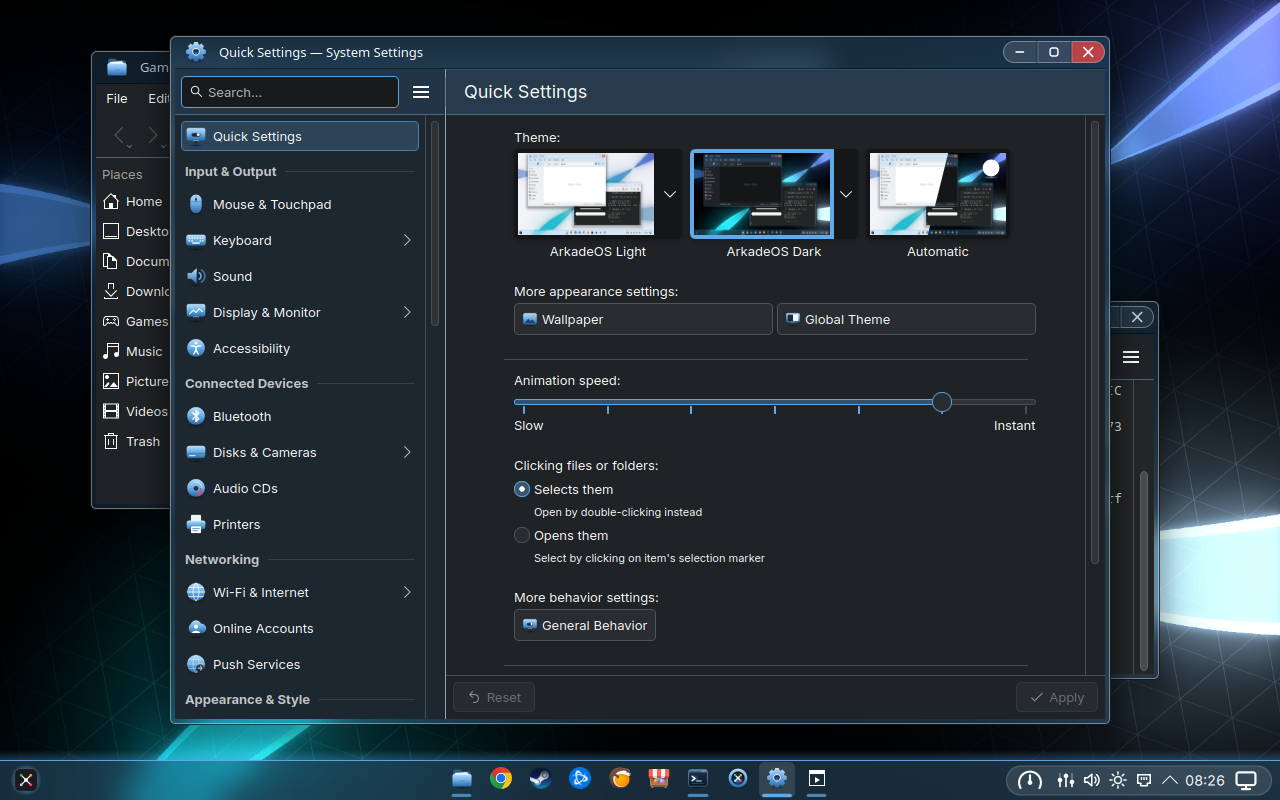
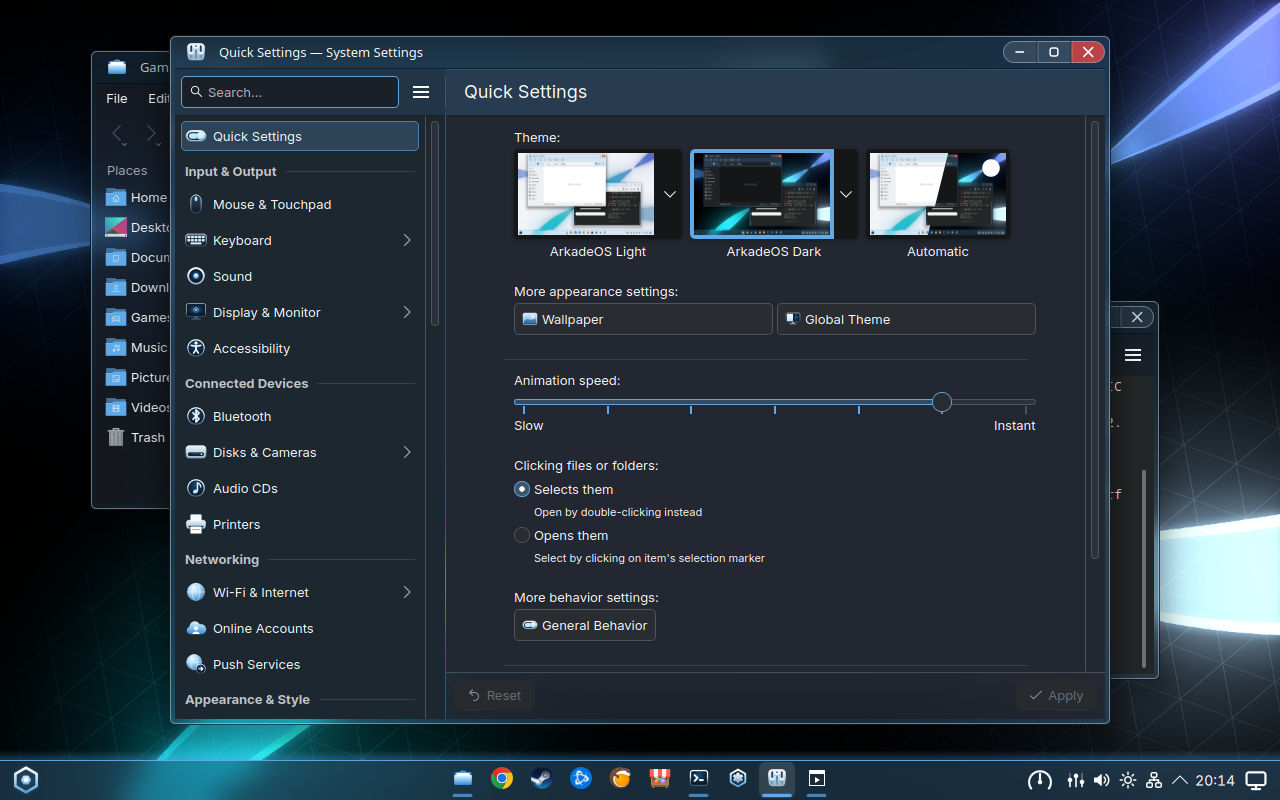
README: new pictures from the round 13 build (boot, welcome, login, lock, Start menu)
The desktop, light look, Quick Settings, Portal and login pictures are
retaken from the VM round 13 build; boot, welcome, lock and Start menu are
new. The boot picture comes from the installer test (round 12), the only
test that shows the graphical boot and the disk password.

diff --git a/README.md b/README.md
@@ -12,7 +12,7 @@ A clean KDE Plasma desktop, one image for NVIDIA, AMD and Intel graphics, Steam 
 ## Why ArkadeOS
 
 - **Built for games only.** No background indexing, no services you don't need. The kernel, scheduler and power settings are tuned for low latency and high frame rates.
-- **KDE Plasma in ArkadeOS Glass.** Our own sky-blue glass look, light and dark: one glass taskbar at the bottom with the pinned apps in the middle, ArkadeOS's own app and tray icons. Menus in the windows, quick search on Meta+Space, window snapping, Alt+Tab previews, clipboard history.
+- **KDE Plasma in ArkadeOS Glass.** Our own sky-blue glass look, light and dark, from the boot animation to the desktop: one glass taskbar at the bottom with the pinned apps in the middle, ArkadeOS's own app and tray icons. Menus in the windows, quick search on Meta+Space, window snapping, Alt+Tab previews, clipboard history.
 - **Can't be broken by an update.** The whole system is one image. A bad update? Reboot and pick the previous one.
 - **One image for every gaming graphics card.** NVIDIA, AMD and Intel: the NVIDIA driver is built in and only runs where an NVIDIA card is. See [Supported graphics cards](#supported-graphics-cards).
 
@@ -35,7 +35,8 @@ A clean KDE Plasma desktop, one image for NVIDIA, AMD and Intel graphics, Steam 
 | 💻 | MSI (msi-ec, MControlCenter), Lenovo Legion (LenovoLegionLinux); battery care at 80% | implemented |
 | 🌈 | RGB that follows the power profile (OpenRGB, ASUS Aura) | implemented |
 | 🖱 | Logitech and Razer mice, ASUS ROG keyboards, monitor control, LACT for the graphics card | implemented |
-| 🖥 | KDE Plasma 6 in ArkadeOS Glass: own glass look, wallpapers, app and tray icons, System Settings and Portal in the same look; light and dark switching by the time of day, one taskbar | implemented |
+| 🖥 | KDE Plasma 6 in ArkadeOS Glass: own glass look, wallpapers, app, folder and tray icons, System Settings and Portal in the same look; light and dark switching by the time of day, one taskbar | implemented |
+| ✨ | Boot animation of the ArkadeOS mark (also asking for the disk password), login, lock and welcome screens in the same glass | implemented |
 | 📌 | Anything pinned on the taskbar stays there: Steam games, Windows programs, Chrome web apps | implemented |
 | 🧩 | ArkadeOS Portal: pick apps at first login, add or remove anything later | implemented |
 | 🤖 | Optional AI tools: Claude and Codex, desktop apps and command line | implemented |
@@ -50,10 +51,14 @@ A clean KDE Plasma desktop, one image for NVIDIA, AMD and Intel graphics, Steam 
 |---|---|
 | ![Light look](art/screenshots/desktop-light.png) | ![Quick Settings: ArkadeOS Light, Dark or Automatic](art/screenshots/settings.png) |
 | Light look | Quick Settings: light, dark or automatic |
-| ![ArkadeOS Portal at the first login: tick what you want](art/screenshots/portal.png) | ![Login screen](art/screenshots/login.png) |
-| ArkadeOS Portal at the first login: tick what you want, change it any time | Login screen |
+| ![Boot animation asking for the disk password](art/screenshots/boot.png) | ![Welcome screen while the desktop loads](art/screenshots/welcome.png) |
+| Boot animation, here asking for the disk password | Welcome screen while the desktop loads |
+| ![Login screen](art/screenshots/login.png) | ![Lock screen](art/screenshots/lock.png) |
+| Login screen | Lock screen |
+| ![ArkadeOS Portal at the first login: tick what you want](art/screenshots/portal.png) | ![Start menu](art/screenshots/launcher.png) |
+| ArkadeOS Portal at the first login: tick what you want, change it any time | Start menu |
 
-Taken automatically from the 14 November 2026 build in a virtual machine (1280×800 screen).
+Taken automatically from the 14 November 2026 build in a virtual machine (1280×800 screen); the boot animation from the installer test.
 
 ## Supported graphics cards
 
